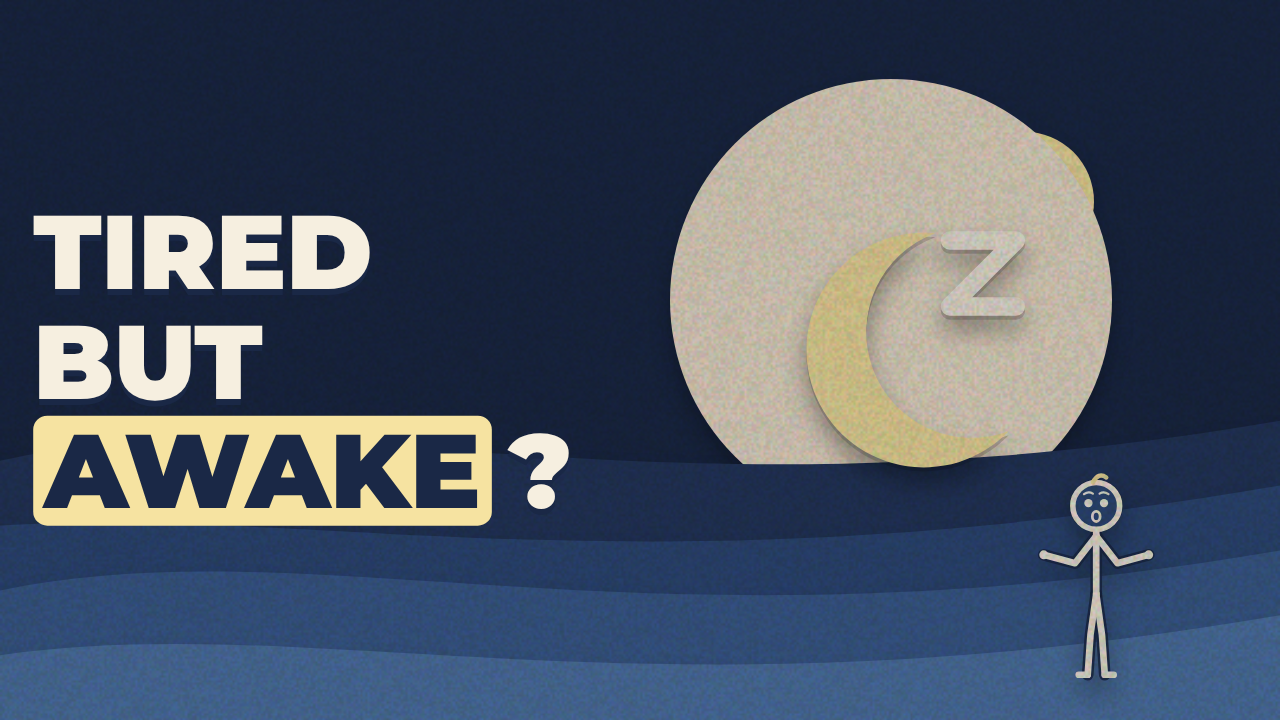
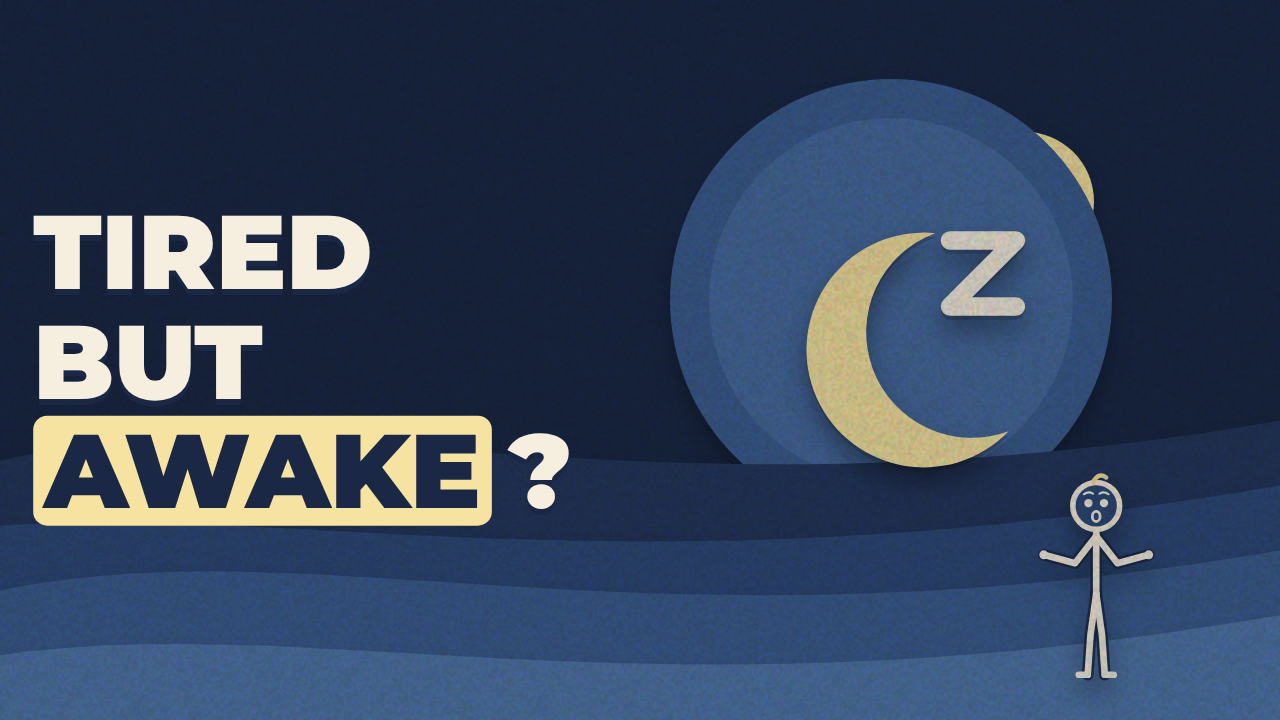
Paper cut: центральный круг — синий слой бумаги, предметы на нём контрастнее
Claude-Session: https://claude.ai/code/session_01Tpam416PkVXJAQBYRQSEkQ

Changed region(s): [[0.5, 0.0917, 0.875, 0.6722]]

diff --git a/remotion/src/styles/Backdrops.tsx b/remotion/src/styles/Backdrops.tsx
@@ -244,7 +244,8 @@ const PaperCut: React.FC<BP> = ({seed}) => {
     <AbsoluteFill style={{background: pal[0]}}>
       <Svg style={{filter: sh}}>
         <circle cx={W * (r('sx') < 0.5 ? 0.2 : 0.8)} cy={H * 0.28} r={70} fill="#F6E3A1" />
-        <circle cx={f.x} cy={f.y} r={f.r * 0.85} fill="#F1E4CF" />
+        <circle cx={f.x} cy={f.y} r={f.r * 0.85} fill={pal[3]} />
+        <circle cx={f.x} cy={f.y} r={f.r * 0.7} fill={pal[4]} opacity={0.55} />
       </Svg>
       {[1, 2, 3, 4].map((i) => (
         <Svg key={i} style={{filter: sh}}>
